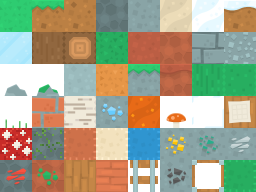
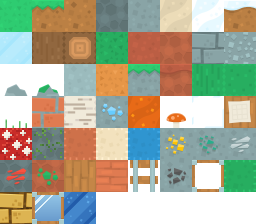
Prismwander: fix broken drawing found in an audit
- Brass blocks used a rail-track tile with transparent gaps that drew black
  (clockwork tower floors, Cogwick roof, clock battle floor); they get a brass
  plate tile. Tower windows were black squares; they get a glazed window tile.
- Water above sea level (Dunewell oasis, village wells) was never drawn; chunks
  now give it a water surface.
- Dunewell's two houses floated five blocks over the ground with doors onto a
  drop; houses on lower ground now stand on a stone footing with steps down.
- Fenside's home stone, a coral-isle monster and rocks were set on house roofs;
  nothing is placed on roofs now. Villagers, barrels and a wheelbarrow sunk into
  or floating over the ground are set onto it. The summoner crystal in Vael
  floated a block too high.
- The sea plane cut through the Noon Halls and the Prism Abyss; it is hidden there.
- The camera could sit behind a wall with nothing but stone in view; it now
  pulls in when anything is between it and the hero.
- The clockwork tower roof had the dark indoor sky; it is open sky now.
- Tinted Quaternius machines (colossus, Varek, coglings) came out muddy olive;
  their colour swatches are recoloured toward the tint, and Quaternius metal
  is turned off since there are no reflections to show it.

diff --git a/js/world.js b/js/world.js
@@ -21,7 +21,7 @@ const FACES = {
   19: ['mushcap', 'mushcap', 'mushcap'], 22: ['cactus_top', 'cactus_side', 'cactus_top'], 23: ['mossstone', 'stone_grass', 'greystone'], 24: ['dirt', 'dirt', 'dirt'],
   25: ['cotton_red', 'cotton_red', 'cotton_red'], 26: ['cotton_tan', 'cotton_tan', 'cotton_tan'], 27: ['cotton_blue', 'cotton_blue', 'cotton_blue'], 28: ['stone_gold', 'stone_gold', 'stone_gold'],
   29: ['stone_iron', 'stone_iron', 'stone_iron'], 30: ['stone_silver', 'stone_silver', 'stone_silver'], 31: ['greystone_ruby', 'greystone_ruby', 'greystone_ruby'], 32: ['redstone_emerald', 'redstone_emerald', 'redstone_emerald'],
-  33: ['wood', 'wood', 'wood'], 34: ['wood_red', 'wood_red', 'wood_red'], 35: ['track_straight', 'stone_iron', 'stone_iron'], 36: ['stone_coal', 'stone_coal', 'stone_coal'], 37: ['glass_frame', 'glass_frame', 'glass_frame'], 38: ['cotton_green', 'cotton_green', 'cotton_green'],
+  33: ['wood', 'wood', 'wood'], 34: ['wood_red', 'wood_red', 'wood_red'], 35: ['brass', 'brass', 'brass'], 36: ['stone_coal', 'stone_coal', 'stone_coal'], 37: ['window', 'window', 'window'], 38: ['cotton_green', 'cotton_green', 'cotton_green'],
 };
 // water and lava are not solid: you cannot stand in them, and the player treats both as walls
 export const solid = (id) => id !== 0 && id !== B.water && id !== B.lava;
@@ -171,7 +171,10 @@ export function get(x, y, z) { x += OX; z += OZ; if (x < 0 || z < 0 || x >= WX |
 export function set(x, y, z, id) { x += OX; z += OZ; if (x < 0 || z < 0 || x >= WX || z >= WZ || y < 0 || y >= WY) return; W.data[idx(x, y, z)] = id; }
 export const ground = (x, z) => { x = Math.max(0, Math.min(WX - 1, Math.floor(x))); z = Math.max(0, Math.min(WZ - 1, Math.floor(z))); for (let y = WY - 1; y > 0; y--) if (solid(get(x, y, z))) return y + 1; return 1; };
 // standing ground that is dry: not sea, lake, marsh pool or lava
-const dry = (x, z) => { const g = ground(x, z), here = get(Math.floor(x), g, Math.floor(z)), top = get(Math.floor(x), g - 1, Math.floor(z)); return g > SEA + 1 && here !== B.water && here !== B.lava && !seeThrough(top) && top !== B.wood && top !== B.birch && top !== B.post && top !== B.cactus; };
+// the columns under a house's roof: nothing is set down up there
+const ROOF = new Uint8Array(WX * WZ);
+const underRoof = (x, z) => { x = Math.floor(x) + OX; z = Math.floor(z) + OZ; return x >= 0 && z >= 0 && x < WX && z < WZ && ROOF[z * WX + x] === 1; };
+const dry = (x, z) => { if (underRoof(x, z)) return false; const g = ground(x, z), here = get(Math.floor(x), g, Math.floor(z)), top = get(Math.floor(x), g - 1, Math.floor(z)); return g > SEA + 1 && here !== B.water && here !== B.lava && !seeThrough(top) && top !== B.wood && top !== B.birch && top !== B.post && top !== B.cactus; };
 // the nearest dry ground to (x0, z0), searching outward in rings
 function dryNear(x0, z0, maxR = 70) {
   for (let r = 0; r <= maxR; r++) for (let a = 0; a < Math.max(1, r * 8); a++) {
@@ -206,6 +209,16 @@ function house(x, y, z, w = 5, d = 5, wall = B.plank, roof = B.brick) {
   for (let k = 0; k < 3; k++) for (let i = 0; i < w; i++) for (let j = 0; j < d; j++) { if (i === 0 || j === 0 || i === w - 1 || j === d - 1) set(x + i, y + k, z + j, wall); }
   set(x + (w >> 1), y, z + d - 1, B.air); set(x + (w >> 1), y + 1, z + d - 1, B.air);
   for (let r = 0; r <= (w >> 1) + 1; r++) for (let j = -1; j <= d; j++) { set(x - 1 + r, y + 3 + r, z + j, roof); set(x + w - r, y + 3 + r, z + j, roof); }
+  for (let i = x - 1; i <= x + w; i++) for (let j = z - 1; j <= z + d; j++) { const ax = i + OX, az = j + OZ; if (ax >= 0 && az >= 0 && ax < WX && az < WZ) ROOF[az * WX + ax] = 1; }
+  // a house set on lower ground stands on a stone footing, with steps down from its door to the ground
+  for (let i = x - 1; i <= x + w; i++) for (let j = z - 1; j <= z + d; j++) for (let yy = y - 2; yy > 0 && !solid(get(i, yy, j)); yy--) set(i, yy, j, B.cobble);
+  const dx = x + (w >> 1);
+  for (let k = 1; k <= 10; k++) {
+    const j = z + d + k; let low = false;
+    for (let i = dx - 1; i <= dx + 1; i++) { let s = y - 1; while (s > 0 && !solid(get(i, s, j))) s--; if (s + 1 < y - k) low = true; }
+    if (!low) break;
+    for (let i = dx - 1; i <= dx + 1; i++) for (let yy = y - k - 1; yy > 0 && !solid(get(i, yy, j)); yy--) set(i, yy, j, B.cobble);
+  }
   return [x + (w >> 1) + 0.5, y, z + d + 0.5];
 }
 const npc = (id, model, pos, talk, extra = {}) => W.ents.push({ type: 'npc', id, model: 'chars/' + model, pos: [pos[0] + OX, pos[1], pos[2] + OZ], face: 0, talk, ...extra });
@@ -214,7 +227,7 @@ const prop = (...ps) => { for (const p of ps) W.ents.push({ ...p, pos: [p.pos[0]
 // key places other modules look up: villages' people, crystals, chests, home stones, monster spawns and the rest
 export function generate() {
   const { data, height } = W;
-  data.fill(0);
+  data.fill(0); ROOF.fill(0);
   regReady = false; for (let z = 0; z < WZ; z++) for (let x = 0; x < WX; x++) REG[z * WX + x] = regionSlow(x, z); regReady = true;
   for (let z = 0; z < WZ; z++) for (let x = 0; x < WX; x++) height[z * WX + x] = columnHeight(x, z);
   for (let z = 0; z < WZ; z++) for (let x = 0; x < WX; x++) {
@@ -253,7 +266,17 @@ export function generate() {
   buildEast(); buildAbyss(); buildNoonHalls(); buildOldExtras();
   placeCrystals(); placeChests(); placeHomes(); placeSpawns(); placeShards(); placeSigns(); placeHerbs(); placeFishing(); placeEin(); placeDecor();
   placeEast();
+  // villagers, props and decorations set at a village's level stand on the ground actually under them
+  for (const e of W.ents) if (e.type === 'npc' || e.type === 'prop') settle(e);
+  for (const d of W.decor) if (!d.flat) settle(d);
   return W;
+}
+function settle(e) {
+  const x = Math.floor(e.pos[0]), z = Math.floor(e.pos[2]), y = Math.round(e.pos[1]);
+  if (Math.abs(e.pos[1] - y) > 0.01) return;
+  const ok = (yy) => solid(get(x, yy - 1, z)) && (!solid(get(x, yy, z)) || get(x, yy, z) === B.post);
+  if (ok(y)) return;
+  for (const d of [1, -1, 2, -2]) if (ok(y + d)) { e.pos[1] = y + d; return; }
 }
 // villages, the ruins' heart and the spire keep their ground free of trees
 function isClear(x, z) {
@@ -913,7 +936,7 @@ function placeEast() {
   boss('b_umbra', 'umbra', [SPIRE.x + 0.5, 4, SPIRE.z + 0.5]);
   // crystals of the lost faces
   W.crystals.push({ job: 'dragoon', pos: [SKY[6][0] + 0.5, SKY[6][2] + 0.8, SKY[6][1] + 0.5], east: true, lost: true });
-  W.crystals.push({ job: 'summoner', pos: [VAEL.c[0] + 0.5, 3.8, VAEL.c[1] - 3.5], east: true, lost: true, need: 'b_morwen' });
+  W.crystals.push({ job: 'summoner', pos: [VAEL.c[0] + 0.5, 2.8, VAEL.c[1] - 3.5], east: true, lost: true, need: 'b_morwen' });
   W.crystals.push({ job: 'machinist', pos: [TOWER.x + 0.5 - 4, 39.8, TOWER.z + 0.5], east: true, lost: true });
   // chests of the east: [x, z, item, n, floor height for places under a roof]
   const EC = [
@@ -1031,6 +1054,13 @@ export function buildChunk(cx, cz) {
     let ymax = 0; for (let y = WY - 1; y >= 0; y--) if (data[cb + y] !== 0) { ymax = y; break; }
     for (let y = 0; y <= ymax; y++) {
       const id = data[cb + y];
+      // water above the sea (the oasis, the wells) is not under the sea plane: give it a surface of its own
+      if (id === B.water && y > SEA && at(x, y + 1, z) === 0) {
+        const fi = faces.water, u0 = (fi % cols) * du + pad, v0 = 1 - (Math.floor(fi / cols) + 1) * dv + pad, u1 = u0 + du - pad * 2, v1 = v0 + dv - pad * 2, base = pos.length / 3;
+        for (const [a, c] of [[0, 1], [1, 1], [1, 0], [0, 0]]) { pos.push(x + a, y + 0.82, z + c); col.push(1, 1, 1); }
+        uv.push(u0, v0, u1, v0, u1, v1, u0, v1); ind.push(base, base + 1, base + 2, base, base + 2, base + 3);
+        continue;
+      }
       if (!opaque(id)) continue;
       for (const d of DIRS) {
         const nb = at(x + d.n[0], y + d.n[1], z + d.n[2]);

diff --git a/js/main.js b/js/main.js
@@ -368,13 +368,16 @@ function updateCamera(dt, instant = false) {
   cam.pitch = Math.max(-0.35, Math.min(1.45, cam.pitch + input.lookY));
   const pitch = cam.pitch;
   const tx = P.x, ty = P.y + 1.4, tz = P.z;
-  let d = cam.dist, cx, cy, cz;
-  // pull in if the camera would end up inside the land, a roof or a wall
-  for (; d > 1.2; d -= 0.4) {
-    cx = tx - Math.sin(cam.yaw) * Math.cos(pitch) * d; cz = tz - Math.cos(cam.yaw) * Math.cos(pitch) * d; cy = ty + Math.sin(pitch) * d;
+  let cx, cy, cz;
+  // pull in if the camera would end up inside the land, a roof or a wall, or with one between it and you
+  const at = (d) => { cx = tx - Math.sin(cam.yaw) * Math.cos(pitch) * d; cz = tz - Math.cos(cam.yaw) * Math.cos(pitch) * d; cy = ty + Math.sin(pitch) * d; };
+  const clear = () => {
     const cb = get(Math.floor(cx), Math.floor(cy), Math.floor(cz)), below = get(Math.floor(cx), Math.floor(cy - 0.3), Math.floor(cz));
-    if ((!solid(cb) || seeThrough(cb)) && (!solid(below) || seeThrough(below)) && (caveDark < 1 || cy > ground(cx, cz) + 0.3 || standAt(cx, cy, cz, 2) > 0 || cy > P.y + 2)) break;
-  }
+    return (!solid(cb) || seeThrough(cb)) && (!solid(below) || seeThrough(below)) && (caveDark < 1 || cy > ground(cx, cz) + 0.3 || standAt(cx, cy, cz, 2) > 0 || cy > P.y + 2);
+  };
+  let d = 1.2;
+  for (let s = 1.2 + 0.4; s <= cam.dist + 1e-6; s += 0.4) { at(s); if (!clear()) break; d = s; }
+  at(d);
   const k = instant ? 1 : Math.min(1, dt * 8);
   camera.position.x += (cx - camera.position.x) * k; camera.position.y += (cy - camera.position.y) * k; camera.position.z += (cz - camera.position.z) * k;
   camera.lookAt(tx, ty, tz);
@@ -578,12 +581,17 @@ const SKY_OF = { forest: 'forest', mesa: 'mesa', dunewell: 'mesa', mountain: 'mo
   eastsea: 'sea', coral: 'sea', tidehaven: 'sea', cloud: 'sky', vael: 'vael', deep: 'cave', delvers: 'cave', abyss: 'abyss', noonhall: 'noon', clocktower: 'clock', clock: 'sea', cogwick: 'sea', deepholm: 'default' };
 function updateRegion() {
   const r = regionAt3(P.x, P.y, P.z);
-  const dark = REGIONS[r].cave ? (r === 'noonhall' ? 0.8 : r === 'clocktower' ? 0.75 : 0.5) : 1;
+  // the tower's roof is open to the sky
+  const roof = r === 'clocktower' && P.y > 56.5;
+  const dark = REGIONS[r].cave && !roof ? (r === 'noonhall' ? 0.8 : r === 'clocktower' ? 0.75 : 0.5) : 1;
+  // the sea plane would cut through the halls dug below sea level
+  if (G.water) G.water.visible = r !== 'noonhall' && r !== 'abyss';
   if (dark !== caveDark) { caveDark = dark; skyT = 1; }
   if (r !== P.region) {
     P.region = r; areaName(REGIONS[r].name[LANG === 'en' ? 1 : 0]); if (!P.boat) playMusic(REGIONS[r].music);
-    skyKind = SKY_OF[r] || 'default'; skyT = 1;
   }
+  const sk = roof ? 'sea' : SKY_OF[r] || 'default';
+  if (sk !== skyKind) { skyKind = sk; skyT = 1; }
 }
 function cullFar() {
   for (const g of decorCells) g.visible = Math.hypot(g.userData.c[0] - P.x, g.userData.c[1] - P.z) < VIEW * Q.decor + DECOR_CELL * 0.75;

diff --git a/js/models.js b/js/models.js
@@ -12,7 +12,9 @@ export function preload(paths) {
     if (cache.has(p)) { res(); return; }
     loader.load(p.endsWith('.gltf') ? `assets/models/${p}` : `assets/models/${p}.glb`, (g) => {
       hideSpares(p, g.scene);
-      g.scene.traverse((o) => { if (o.isMesh) { o.castShadow = o.receiveShadow = Q.shadow > 0; if (o.material && o.material.map) { o.material.map.magFilter = THREE.NearestFilter; o.material.map.colorSpace = THREE.SRGBColorSpace; } } });
+      // Quaternius marks everything 40% metal; with no reflections to show, metal only comes out dark and muddy
+      const flat = p.startsWith('quat/');
+      g.scene.traverse((o) => { if (o.isMesh) { o.castShadow = o.receiveShadow = Q.shadow > 0; if (flat) for (const m of [].concat(o.material)) if (m && m.metalness !== undefined) m.metalness = 0; if (o.material && o.material.map) { o.material.map.magFilter = THREE.NearestFilter; o.material.map.colorSpace = THREE.SRGBColorSpace; } } });
       cache.set(p, g); res();
     }, undefined, () => { console.warn('missing model', p); cache.set(p, null); res(); });
   })));
@@ -51,10 +53,25 @@ function tintMaterial(mat, tint, all) {
   const key = mat.uuid + tint;
   if (tinted.has(key)) return tinted.get(key);
   const m = mat.clone(), c = new THREE.Color(tint), n = mat.name || '';
-  if (all || /main|atlas|diffuse|^material/i.test(n)) { if (m.map) m.color.copy(c); else m.color.copy(c); }
+  if (m.map && m.map.image && /atlas/i.test(n)) m.map = recolour(m.map, c);
+  else if (all || /main|atlas|diffuse|^material/i.test(n)) m.color.copy(c);
   else if (/secondary|belly|light|horn|claws|wings|ears|hair|stripe|beak|flaps/i.test(n)) { m.color.lerp(c.clone().multiplyScalar(0.7), 0.6); }
   tinted.set(key, m);
   return m;
+}
+// a colour-swatch texture (Quaternius' atlases) recoloured toward the tint by brightness, so a brass machine reads
+// as brass; multiplying the swatches by the tint would only turn them all a muddy olive
+function recolour(map, c) {
+  const img = map.image, w = img.width, h = img.height, cv = document.createElement('canvas'); cv.width = w; cv.height = h;
+  const g = cv.getContext('2d'); g.drawImage(img, 0, 0);
+  const d = g.getImageData(0, 0, w, h), p = d.data, tc = c.clone().convertLinearToSRGB(), tr = tc.r * 255, tg = tc.g * 255, tb = tc.b * 255;
+  for (let i = 0; i < p.length; i += 4) {
+    const l = (0.299 * p[i] + 0.587 * p[i + 1] + 0.114 * p[i + 2]) / 255, k = 0.5 + l * 0.8;
+    p[i] = p[i] * 0.25 + Math.min(255, tr * k) * 0.75; p[i + 1] = p[i + 1] * 0.25 + Math.min(255, tg * k) * 0.75; p[i + 2] = p[i + 2] * 0.25 + Math.min(255, tb * k) * 0.75;
+  }
+  g.putImageData(d, 0, 0);
+  const t = map.clone(); t.source = new THREE.Source(cv); t.needsUpdate = true;
+  return t;
 }
 function applyTint(obj, tint) {
   const mats = []; obj.traverse((o) => { if (o.isMesh) for (const mm of [].concat(o.material)) mats.push(mm); });

diff --git a/js/battle.js b/js/battle.js
@@ -29,7 +29,7 @@ const wait = (ms) => new Promise((r) => setTimeout(r, ms));
 const SKY = { grass: 0x8cc8f0, forest: 0x305a3a, sand: 0x9ad0f0, redsand: 0xe8a070, stone: 0x8890a8, snow: 0xc8d8f0, crystal: 0x40306a, marsh: 0x5a6e62, spore: 0x5a3e7a, ember: 0x6a2a1a,
   sea: 0x5aa8e0, sky: 0xb8e0ff, vael: 0x1f5a6a, clock: 0x4a3c30, deep: 0x1c3424, abyss: 0x160c24, noon: 0xe0c070, arena: 0x8cc8f0 };
 const FLOOR = { grass: 'grass_top', forest: 'grass_top', sand: 'sand', redsand: 'redsand', stone: 'greystone', snow: 'snow', crystal: 'stone_diamond', marsh: 'mossstone', spore: 'grass_top', ember: 'redstone',
-  sea: 'sand', sky: 'cotton_blue', vael: 'cotton_tan', clock: 'track_straight', deep: 'mossstone', abyss: 'greystone_ruby', noon: 'stone_gold', arena: 'sand' };
+  sea: 'sand', sky: 'cotton_blue', vael: 'cotton_tan', clock: 'brass', deep: 'mossstone', abyss: 'greystone_ruby', noon: 'stone_gold', arena: 'sand' };
 // the ground decides a geomancer's element
 const TERRAIN_EL = { grass: 'wind', forest: 'earth', marsh: 'water', spore: 'earth', sand: 'water', redsand: 'earth', stone: 'earth', snow: 'ice', crystal: 'holy', ember: 'fire', sea: 'water', sky: 'wind', vael: 'water', clock: 'bolt', deep: 'earth', abyss: 'dark', noon: 'holy', arena: 'earth' };
 export function setBattleAtlas(t, info) { tex = { t, info }; }

diff --git a/CREDITS.md b/CREDITS.md
@@ -24,7 +24,7 @@ By [Quaternius](https://quaternius.com), released under CC0 1.0:
 - **Ultimate Monsters** and other Quaternius packs (animated monsters, robots, dinosaurs and the Mech): most monsters of the Eastern Sea, the summoned spirits, Unit 7 and the bird folk and Delvers. Each model was downloaded from its Poly Pizza page by Quaternius, licence CC0; the list of files with their source pages is in `assets/models/quat/License.txt`. https://quaternius.com/packs/ultimatemonsters.html · https://poly.pizza/u/Quaternius
 - Many of them are recoloured in code for this game.
 
-More tiles from the Kenney **Voxel Pack** (coral, sandstone, sky stone, gold, iron, ruby, planks, brass track, glass frames) were added to the block atlas.
+More tiles from the Kenney **Voxel Pack** (coral, sandstone, sky stone, gold, iron, ruby, planks, brass track, glass frames) were added to the block atlas. The brass plates (the pack's stone bricks recoloured), the glazed window (the pack's glass frame with its clear middle filled in) and the pond-water surface (the pack's ice recoloured) in the atlas's last row were made from those for this game.
 
 Each pack's own licence file sits next to its models in `assets/models/` and `assets/tex/`. The slimes, crabs, golems, wisps, scorpions, the treants, the drakes and the Prism Heart are built from boxes in code for this game, and so are the memory shards, signposts, herbs and ripples.
 
